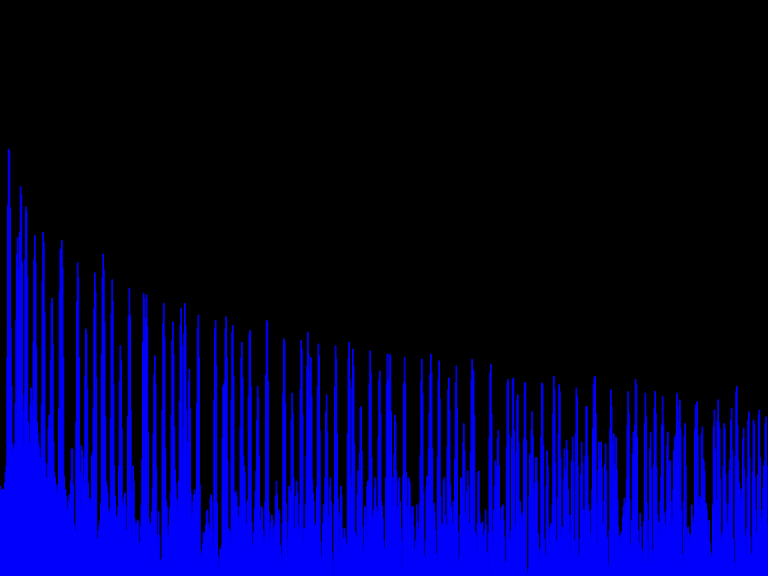
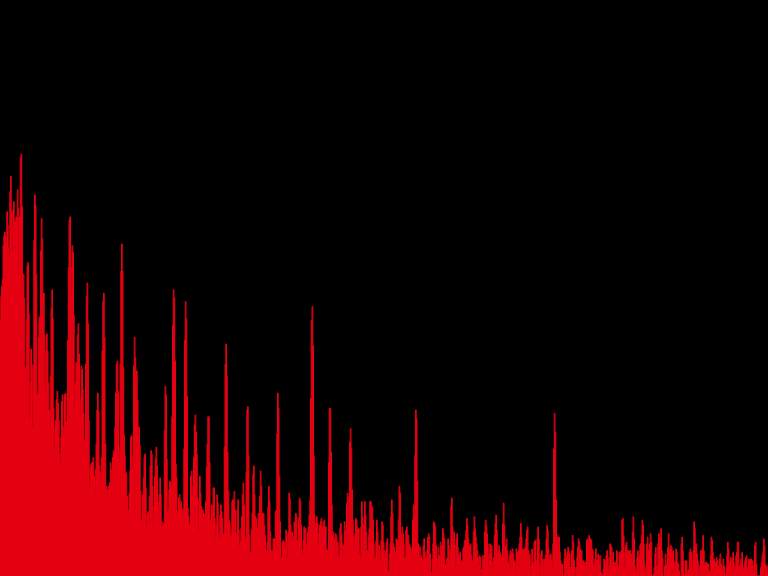
change wave color like MD

Changed region(s): [[0.0, 0.25, 1.0, 1.0]]

diff --git a/wasm-synth-player/src/js/index.js b/wasm-synth-player/src/js/index.js
@@ -246,7 +246,7 @@ let draw = function() {
 
         canvasContext.lineWidth = 1;
         canvasContext.beginPath();
-        canvasContext.strokeStyle = 'rgb(0, 0, 255)';
+        canvasContext.strokeStyle = '#e60012';
 
         var width = CANVAS_WIDTH * 1.0 / audioAnalyserBufferLength;
 
@@ -259,7 +259,7 @@ let draw = function() {
     }
 
     canvasContext.font = "12px sans-serif";
-    canvasContext.fillStyle = "#00ff00";
+    canvasContext.fillStyle = "#00a040";
     if(totalPlaylistCount >= 1) {
         let counter = "Track " + (totalPlaylistCount - playlist.length) + " / " + totalPlaylistCount;
         let counter_left = (CANVAS_WIDTH - canvasContext.measureText(counter).width) / 2;
